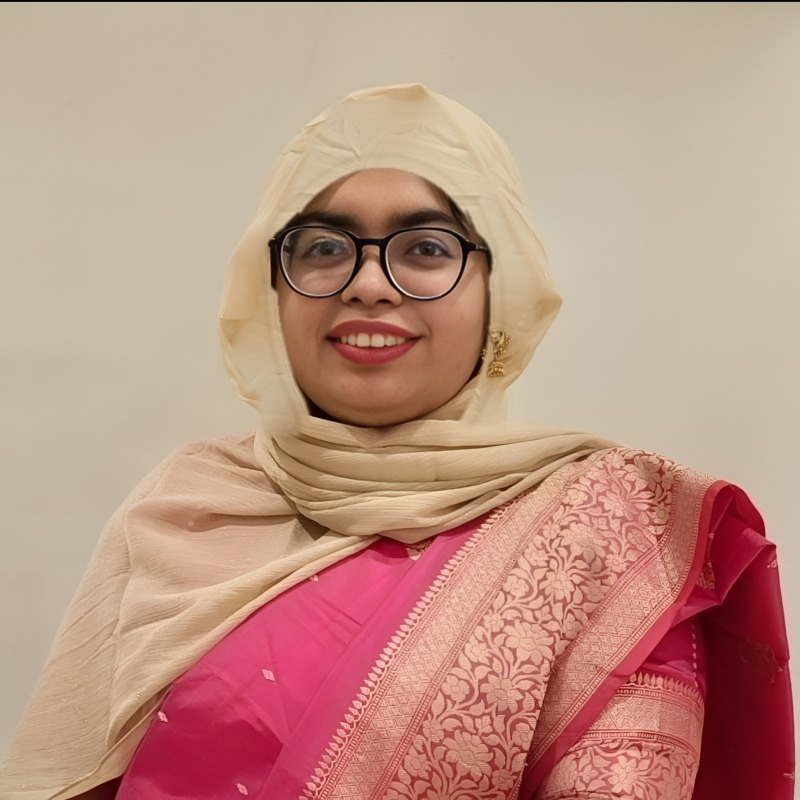
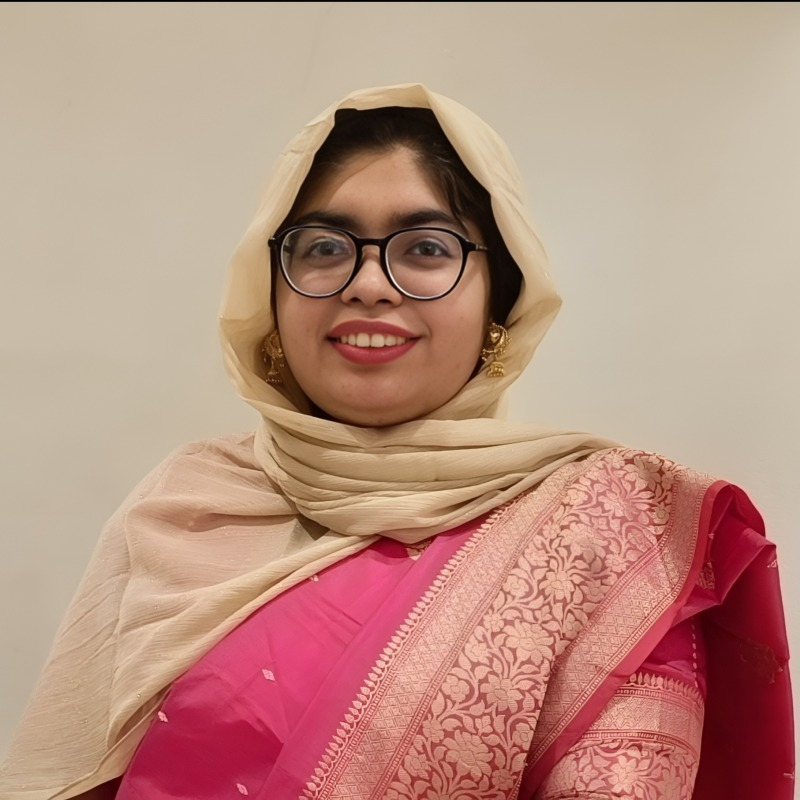
adding stuffs

Changed region(s): [[0.3125, 0.125, 0.6875, 0.5312], [0.2812, 0.3438, 0.4062, 0.5625]]

diff --git a/index.html b/index.html
@@ -11,10 +11,10 @@ show_map: true
       <h1 class="hero__name" id="about-heading">Rabeya Akter</h1>
 
       <div class="hero__bio">
-        <p>I am a Research Assistant in the Department of Electrical and Computer Engineering at <a href="https://www.northsouth.edu/">North South University</a>, where I work with Md Salman Shamil and Dr. Md Adnan Arefeen on egocentric video understanding, modeling hand-object interactions and everyday task actions with LLM-guided reasoning.</p>
-        <p>My latest work, <a target="_blank" rel="noopener" href="{{ site.baseurl }}/projects/opasd/">OPASD</a>, teaches reasoning language models <em>where to look</em>. This work is supervised by <a href="https://mmiakashs.github.io/">Dr. Md Mofijul Islam</a> (Amazon GenAI, USA) and <a href="https://www.hbku.edu.qa/en/staff/tasnim-mohiuddin">Dr. Tasnim Mohiuddin</a> (Qatar Computing Research Institute, Qatar). I am also working with <a href="https://scholar.google.com/citations?user=HX0BfLYAAAAJ&amp;hl=en">Dr. Ser-Nam Lim</a> (University of Central Florida, USA) on world models. My first-author work, <a target="_blank" rel="noopener" href="{{ site.baseurl }}/projects/ek-bangla/">EK-Bangla</a>, asks whether multimodal LLMs can describe fine-grained hand-object interactions in Bangla as well as they do in English.</p>
-        <p>I earned my B.Sc. in Robotics and Mechatronics Engineering from the <a href="https://rme.du.ac.bd/">University of Dhaka</a>. After graduating, I worked on amodal counting with <a href="https://scholar.google.com/citations?user=jGC1OfgAAAAJ&amp;hl=en">Dr. Md Mehedi Hasan</a> (University of Dhaka). As an undergraduate, I worked on continuous Bangla sign language translation with <a href="https://scholar.google.com/citations?user=Pe8C-SUAAAAJ&amp;hl=en">Dr. Shafin Rahman</a> (North South University) and <a href="https://scholar.google.com/citations?user=j8XhiIEAAAAJ&amp;hl=en">Dr. Sejuti Rahman</a>. In industry, I was an Associate Software Engineer on the machine learning team at <a href="https://therapbd.com/">Therap (BD) Ltd.</a> and a data science intern at Pathao.</p>
-        <p>Beyond research, I enjoy mentoring in olympiads, taking part in hackathons, and exploring cultural activities such as writing and performing.</p>
+        <p>I am a Research Assistant at <a href="https://www.northsouth.edu/">North South University</a>, working with <a href="https://s-shamil.github.io/">Md Salman Shamil</a> and <a href="https://sites.google.com/view/adnanarefeen/home">Dr. Md Adnan Arefeen</a> on egocentric video understanding (<a target="_blank" rel="noopener" href="{{ site.baseurl }}/projects/ek-bangla/">EK-Bangla</a>).</p>
+        <p>My latest work, <a target="_blank" rel="noopener" href="{{ site.baseurl }}/projects/opasd/">OPASD</a>, teaches reasoning language models <em>where to look</em>. This work is supervised by <a href="https://mmiakashs.github.io/">Dr. Md Mofijul Islam</a> (Amazon GenAI, USA) and <a href="https://www.hbku.edu.qa/en/staff/tasnim-mohiuddin">Dr. Tasnim Mohiuddin</a> (Qatar Computing Research Institute, Qatar). I am also working with <a href="https://scholar.google.com/citations?user=HX0BfLYAAAAJ&amp;hl=en">Dr. Ser-Nam Lim</a> (University of Central Florida, USA) on world models.</p>
+        <p>I earned my B.Sc. in Robotics and Mechatronics Engineering from the <a href="https://rme.du.ac.bd/">University of Dhaka</a>, where I worked on amodal counting with <a href="https://scholar.google.com/citations?user=jGC1OfgAAAAJ&amp;hl=en">Dr. Md Mehedi Hasan</a> and on sign language translation with <a href="https://scholar.google.com/citations?user=Pe8C-SUAAAAJ&amp;hl=en">Dr. Shafin Rahman</a> and <a href="https://scholar.google.com/citations?user=j8XhiIEAAAAJ&amp;hl=en">Dr. Sejuti Rahman</a>.</p>
+        <p>Outside of research, I love good books and well-written blogs, and I am always happy to chat about either, so please feel free to reach out.</p>
       </div>
 
       <div class="callout" role="note">
@@ -81,10 +81,10 @@ show_map: true
         <div class="timeline__date">Mar 2026 – Present</div>
         <div>
           <h4 class="timeline__role">Research Assistant</h4>
-          <p class="timeline__org">Dept. of Electrical and Computer Engineering, North South University · with Md Salman Shamil and Dr. Md Adnan Arefeen</p>
+          <p class="timeline__org">Dept. of Electrical and Computer Engineering, North South University · with <a href="https://s-shamil.github.io/">Md Salman Shamil</a> and <a href="https://sites.google.com/view/adnanarefeen/home">Dr. Md Adnan Arefeen</a></p>
           <ul>
             <li>Working on egocentric video understanding, modeling hand-object interactions and daily task actions with LLM-guided reasoning.</li>
-            <li>Led <a target="_blank" rel="noopener" href="{{ site.baseurl }}/projects/ek-bangla/">EK-Bangla</a>, the first Bangla benchmark for fine-grained egocentric hand-object interaction, with 9,600 verified captions and 2,000 MCQs. Submitted to WACV 2027.</li>
+            <li>Led <a target="_blank" rel="noopener" href="{{ site.baseurl }}/projects/ek-bangla/">EK-Bangla</a>, the first Bangla benchmark for fine-grained egocentric hand-object interaction, with 9,600 verified captions and 2,000 MCQs.</li>
           </ul>
         </div>
       </li>
@@ -95,7 +95,6 @@ show_map: true
           <p class="timeline__org">Dept. of Robotics and Mechatronics Engineering, University of Dhaka · with Dr. Md Mehedi Hasan and Md. Jubair Ahmed Sourov</p>
           <ul>
             <li>Designed and implemented <a target="_blank" rel="noopener" href="{{ site.baseurl }}/projects/countocc/">CountOCC</a>, the first open-world amodal counting framework, and assembled occlusion-augmented datasets to evaluate it.</li>
-            <li>Co-authored the resulting manuscript, submitted to WACV 2027.</li>
           </ul>
         </div>
       </li>
@@ -145,7 +144,7 @@ show_map: true
     <div class="section__head">
       <h2 class="section__title" id="proj-heading">Selected Projects</h2>
     </div>
-    <div class="proj-grid">
+    <div class="proj-grid proj-grid--wide">
       {% for post in site.posts %}{% if post.categories contains 'course-project' %}
         {% include project-card.html project=post kicker='Course project' %}
       {% endif %}{% endfor %}

diff --git a/_layouts/project.html b/_layouts/project.html
@@ -5,32 +5,72 @@ layout: default
   <header class="paper-hero">
     <div class="pub__meta">
       <span class="badge">{% if page.categories contains 'office-project' %}Industry project{% elsif page.categories contains 'course-project' %}Course project{% else %}Personal project{% endif %}</span>
+      {% for t in page.topics %}<span class="badge badge--outline">{{ t }}</span>{% endfor %}
     </div>
     <h1 class="paper-hero__title">{{ page.title }}</h1>
-    {% if page.course %}<p class="paper-hero__affils">{{ page.course }}</p>{% endif %}
+    {% if page.team %}<p class="paper-hero__authors">{{ page.team }}</p>{% endif %}
+    {% if page.course %}<p class="paper-hero__affils">{{ page.course }}{% if page.period %} · {{ page.period }}{% endif %}</p>{% endif %}
+    {% if page.supervisors %}<p class="paper-hero__notes">Supervised by {{ page.supervisors }}</p>{% endif %}
     {% if page.org %}<p class="paper-hero__affils">{{ page.org }}</p>{% endif %}
-    {% if page.code or page.website or page.paper or page.demo1 %}
+    {% if page.code or page.website or page.paper or page.report or page.demo1 %}
     <div class="btn-row">
       {% if page.website %}<a class="btn btn--primary btn--lg" href="{{ page.website }}" target="_blank" rel="noopener">{% include icon.html name='page' %}Website</a>{% endif %}
-      {% if page.code %}<a class="btn btn--lg" href="{{ page.code }}" target="_blank" rel="noopener">{% include icon.html name='code' %}Code</a>{% endif %}
+      {% if page.code %}<a class="btn btn--primary btn--lg" href="{{ page.code }}" target="_blank" rel="noopener">{% include icon.html name='code' %}Code</a>{% endif %}
+      {% if page.report %}<a class="btn btn--lg" href="{{ page.report }}" target="_blank" rel="noopener">{% include icon.html name='paper' %}Report</a>{% endif %}
       {% if page.paper %}<a class="btn btn--lg" href="{{ page.paper }}" target="_blank" rel="noopener">{% include icon.html name='paper' %}Paper</a>{% endif %}
+      {% if page.videos %}<a class="btn btn--lg" href="#demos">{% include icon.html name='video' %}Demos</a>{% else %}
       {% if page.demo1 %}<a class="btn btn--lg" href="{{ page.demo1 }}" target="_blank" rel="noopener">{% include icon.html name='video' %}Demo 1</a>{% endif %}
       {% if page.demo2 %}<a class="btn btn--lg" href="{{ page.demo2 }}" target="_blank" rel="noopener">{% include icon.html name='video' %}Demo 2</a>{% endif %}
       {% if page.demo3 %}<a class="btn btn--lg" href="{{ page.demo3 }}" target="_blank" rel="noopener">{% include icon.html name='video' %}Demo 3</a>{% endif %}
+      {% endif %}
     </div>
     {% endif %}
   </header>
 
   <div class="paper-body">
-    <figure class="figure figure--narrow">
+    {% if page.tldr %}
+    <section class="tldr" aria-label="Summary">
+      <p class="tldr__label">In short</p>
+      <p>{{ page.tldr }}</p>
+    </section>
+    {% endif %}
+
+    {% if page.stats %}
+    <ul class="stats">
+      {% for s in page.stats %}<li><strong>{{ s.value }}</strong><span>{{ s.label }}</span></li>{% endfor %}
+    </ul>
+    {% endif %}
+
+    <figure class="figure figure--{{ page.image_class | default: 'narrow' }}">
       <div class="figure__frame"><img src="{{ site.baseurl }}/{{ page.image }}" alt="Illustration for {{ page.title | escape }}"></div>
+      {% if page.image_caption %}<figcaption>{{ page.image_caption }}</figcaption>{% endif %}
     </figure>
+
     <div class="prose">
       {{ content }}
-      {% if page.tools %}<p><strong>Tools:</strong> {{ page.tools }}</p>{% endif %}
+
+      {% if page.videos %}
+      <h2 id="demos">Demos</h2>
+      <div class="video-grid">
+        {% for v in page.videos %}
+        <figure class="video">
+          <div class="video__frame">
+            <iframe src="https://www.youtube-nocookie.com/embed/{{ v.id }}" title="{{ v.label | escape }}" loading="lazy" allow="accelerometer; encrypted-media; gyroscope; picture-in-picture" allowfullscreen></iframe>
+          </div>
+          <figcaption>{{ v.label }}</figcaption>
+        </figure>
+        {% endfor %}
+      </div>
+      {% endif %}
+
+      {% if page.tools %}<p class="tools"><strong>Tools:</strong> {{ page.tools }}</p>{% endif %}
     </div>
     <nav class="paper-nav" aria-label="Back">
       <a href="{{ site.baseurl }}/#projects"><span>← Back</span>All projects</a>
     </nav>
   </div>
 </article>
+<link rel="stylesheet" href="https://cdn.jsdelivr.net/npm/katex@0.16.11/dist/katex.min.css" crossorigin="anonymous">
+<script defer src="https://cdn.jsdelivr.net/npm/katex@0.16.11/dist/katex.min.js" crossorigin="anonymous"></script>
+<script defer src="https://cdn.jsdelivr.net/npm/katex@0.16.11/dist/contrib/auto-render.min.js" crossorigin="anonymous"
+  onload="renderMathInElement(document.querySelector('.prose'), {delimiters: [{left: '\\[', right: '\\]', display: true}, {left: '\\(', right: '\\)', display: false}], throwOnError: false});"></script>

diff --git a/style.scss b/style.scss
@@ -613,6 +613,21 @@ p { margin: 0 0 1em; }
 .proj__body { flex: 1; padding: 14px 16px 16px; }
 .proj__kicker { margin: 0 0 4px; color: var(--muted); font-size: 12px; font-weight: 600; letter-spacing: .08em; text-transform: uppercase; }
 .proj__title { font-size: 17px; line-height: 1.3; }
+.proj__body { display: flex; flex-direction: column; }
+.proj__summary { margin: 8px 0 12px; color: var(--muted); font-size: 14.5px; line-height: 1.55; }
+.proj__tags { display: flex; flex-wrap: wrap; gap: 6px; margin: 0 0 12px; padding: 0; list-style: none; }
+.proj__tags li { padding: 2px 9px; border: 1px solid var(--rule); border-radius: 999px; color: var(--ink-2); font-size: 12px; }
+.proj__more { margin-top: auto; color: var(--accent); font-size: 13.5px; font-weight: 600; }
+.proj-grid--wide { grid-template-columns: repeat(2, minmax(0, 1fr)); }
+
+/* Embedded demo videos on project pages */
+.video-grid { display: grid; grid-template-columns: repeat(3, minmax(0, 1fr)); gap: 14px; margin: 18px 0 8px; }
+.video { margin: 0; }
+.video__frame { position: relative; aspect-ratio: 16 / 9; overflow: hidden; border: 1px solid var(--rule); border-radius: 10px; background: var(--figure-bg); }
+.video__frame iframe { position: absolute; inset: 0; width: 100%; height: 100%; border: 0; }
+.video figcaption { margin-top: 6px; color: var(--muted); font-size: 13px; text-align: center; }
+.tools { margin-top: 26px; color: var(--muted); font-size: 14.5px; }
+@media (max-width: 680px) { .video-grid, .proj-grid--wide { grid-template-columns: 1fr; } }
 
 /* ==========================================================================
    Experience

diff --git a/_includes/news.html b/_includes/news.html
@@ -7,11 +7,11 @@
   <ul class="news">
     <li>
       <time datetime="2026-09">Sep 2026</time>
-      <p><span class="badge badge--accent">New</span> My first-author work, <a target="_blank" rel="noopener" href="{{ base }}/projects/ek-bangla/">EK-Bangla: When Hand-Object Interaction Meets Low-Resource Generation</a>, has been submitted to <a href="https://wacv.thecvf.com/">WACV 2027</a> (Round 2).</p>
+      <p><span class="badge badge--accent">New</span> Our new preprint, <a target="_blank" rel="noopener" href="{{ base }}/projects/opasd/">Teach Yourself Where to Look</a>, is now on <a href="https://arxiv.org/abs/2609.33200">arXiv</a>.</p>
     </li>
     <li>
       <time datetime="2026-09">Sep 2026</time>
-      <p>Our new preprint, <a target="_blank" rel="noopener" href="{{ base }}/projects/opasd/">Teach Yourself Where to Look</a>, is now on <a href="https://arxiv.org/abs/2609.33200">arXiv</a>.</p>
+      <p><span class="badge badge--accent">New</span> Introducing <a target="_blank" rel="noopener" href="{{ base }}/projects/ek-bangla/">EK-Bangla</a>, my first-author benchmark for fine-grained egocentric hand-object interaction in Bangla. The project page is live.</p>
     </li>
     <li>
       <time datetime="2026-04">Apr 2026</time>

diff --git a/_includes/research.html b/_includes/research.html
@@ -18,11 +18,13 @@
     <article class="thread thread--2">
       <p class="thread__num">02 · Perceive</p>
       <h3 class="thread__title">Multimodal Learning</h3>
-      <p class="thread__body">I fuse complementary modalities, like video with body pose or time series with text, so models capture what any single view would miss.</p>
+      <p class="thread__body">I fuse complementary modalities, like video with body pose or time series with text, so models capture what any single view would miss. I also build benchmarks and datasets that test whether this holds up in low-resource languages like Bangla.</p>
       <div class="thread__links">
+        <a target="_blank" rel="noopener" href="{{ base }}/projects/ek-bangla/">EK-Bangla →</a>
         <a target="_blank" rel="noopener" href="{{ base }}/projects/countocc/">CountOCC →</a>
         <a target="_blank" rel="noopener" href="{{ base }}/projects/signformer-gcn/">SignFormer-GCN →</a>
         <a target="_blank" rel="noopener" href="{{ base }}/projects/t3time/">T3Time →</a>
+        <a target="_blank" rel="noopener" href="{{ base }}/projects/bornil/">Bornil →</a>
       </div>
     </article>
 

diff --git a/_includes/project-card.html b/_includes/project-card.html
@@ -1,10 +1,13 @@
 {% assign project = include.project %}
 <a class="proj" href="{{ project.url | prepend: site.baseurl }}" target="_blank" rel="noopener">
-  <div class="proj__media">
-    <img src="{{ site.baseurl }}/{{ project.image }}" alt="" loading="lazy" decoding="async">
+  <div class="proj__media{% if project.thumb_contain %} proj__media--contain{% endif %}">
+    <img src="{{ site.baseurl }}/{{ project.thumb | default: project.image }}" alt="" loading="lazy" decoding="async">
   </div>
   <div class="proj__body">
-    <p class="proj__kicker">{{ include.kicker }}</p>
-    <h3 class="proj__title">{{ project.title }}</h3>
+    <p class="proj__kicker">{{ include.kicker }}{% if project.period %} · {{ project.period }}{% endif %}</p>
+    <h3 class="proj__title">{{ project.short_title | default: project.title }}</h3>
+    {% if project.summary %}<p class="proj__summary">{{ project.summary }}</p>{% endif %}
+    {% if project.topics %}<ul class="proj__tags">{% for t in project.topics %}<li>{{ t }}</li>{% endfor %}</ul>{% endif %}
+    <span class="proj__more">View project →</span>
   </div>
 </a>

diff --git a/_includes/head.html b/_includes/head.html
@@ -22,7 +22,7 @@
 <link rel="preconnect" href="https://fonts.googleapis.com">
 <link rel="preconnect" href="https://fonts.gstatic.com" crossorigin>
 <link href="https://fonts.googleapis.com/css2?family=Inter:wght@400;500;600;700&family=Newsreader:ital,opsz,wght@0,6..72,400;0,6..72,500;1,6..72,400&display=swap" rel="stylesheet">
-<link rel="stylesheet" href="{{ site.baseurl }}/style.css?v=20261002-r1">
+<link rel="stylesheet" href="{{ site.baseurl }}/style.css?v=20261003-r2">
 
 <!-- Google tag (gtag.js) -->
 <script async src="https://www.googletagmanager.com/gtag/js?id=G-E00L9PT3V9"></script>
